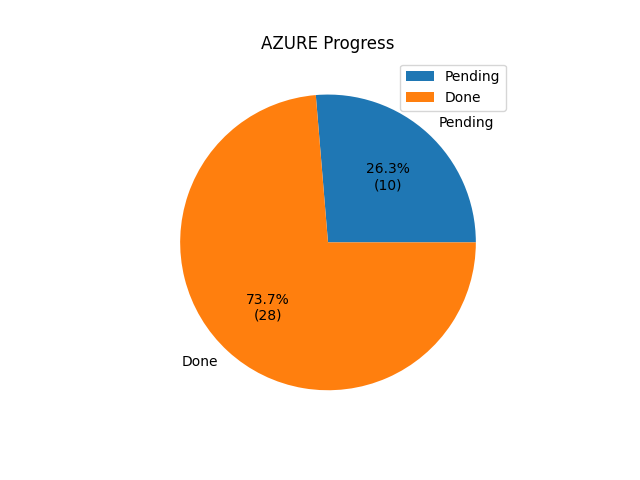
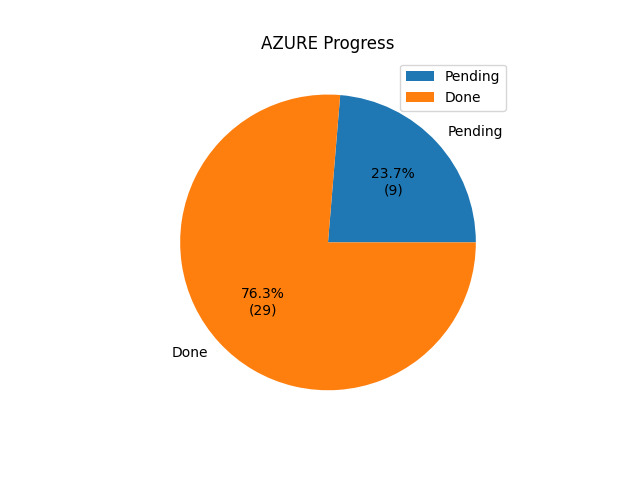
Commit from GitHub Actions (Export Conversion Rules)

diff --git a/conversion_rules_export/markdown/azure.md b/conversion_rules_export/markdown/azure.md
@@ -3,7 +3,6 @@
 | BilledCurrency             |                0 | Not Defined            | Not Defined          | Not Defined         | Not Defined                                                                                  |
 | ChargeType                 |                0 | Not Defined            | Not Defined          | Not Defined         | Not Defined                                                                                  |
 | CommitmentDiscountCategory |                0 | Not Defined            | Not Defined          | Not Defined         | Not Defined                                                                                  |
-| CommitmentDiscountId       |                0 | Not Defined            | Not Defined          | Not Defined         | Not Defined                                                                                  |
 | CommitmentDiscountType     |                0 | Not Defined            | Not Defined          | Not Defined         | Not Defined                                                                                  |
 | ListCost                   |                0 | Not Defined            | Not Defined          | Not Defined         | Not Defined                                                                                  |
 | ListUnitPrice              |                0 | Not Defined            | Not Defined          | Not Defined         | Not Defined                                                                                  |
@@ -41,6 +40,7 @@
 |                            |                  |                        |                      |                     | - WHEN ChargeType = 'Refund' THEN 'Refund'                                                   |
 |                            |                  |                        |                      |                     | - WHEN ChargeType = 'RoundingAdjustment' THEN 'Rounding Error'                               |
 |                            |                  |                        |                      |                     | default_value: '''Other'''                                                                   |
+| CommitmentDiscountId       |                1 | benefitId              | Not Defined          | RENAME_COLUMN       |                                                                                              |
 | CommitmentDiscountName     |                1 | benefitName            | Not Defined          | RENAME_COLUMN       |                                                                                              |
 | EffectiveCost              |                1 | CostInBillingCurrency  | Not Defined          | RENAME_COLUMN       |                                                                                              |
 | InvoiceIssuer              |                1 | NA                     | Not Defined          | ASSIGN_STATIC_VALUE | static_value: Microsoft                                                                      |
